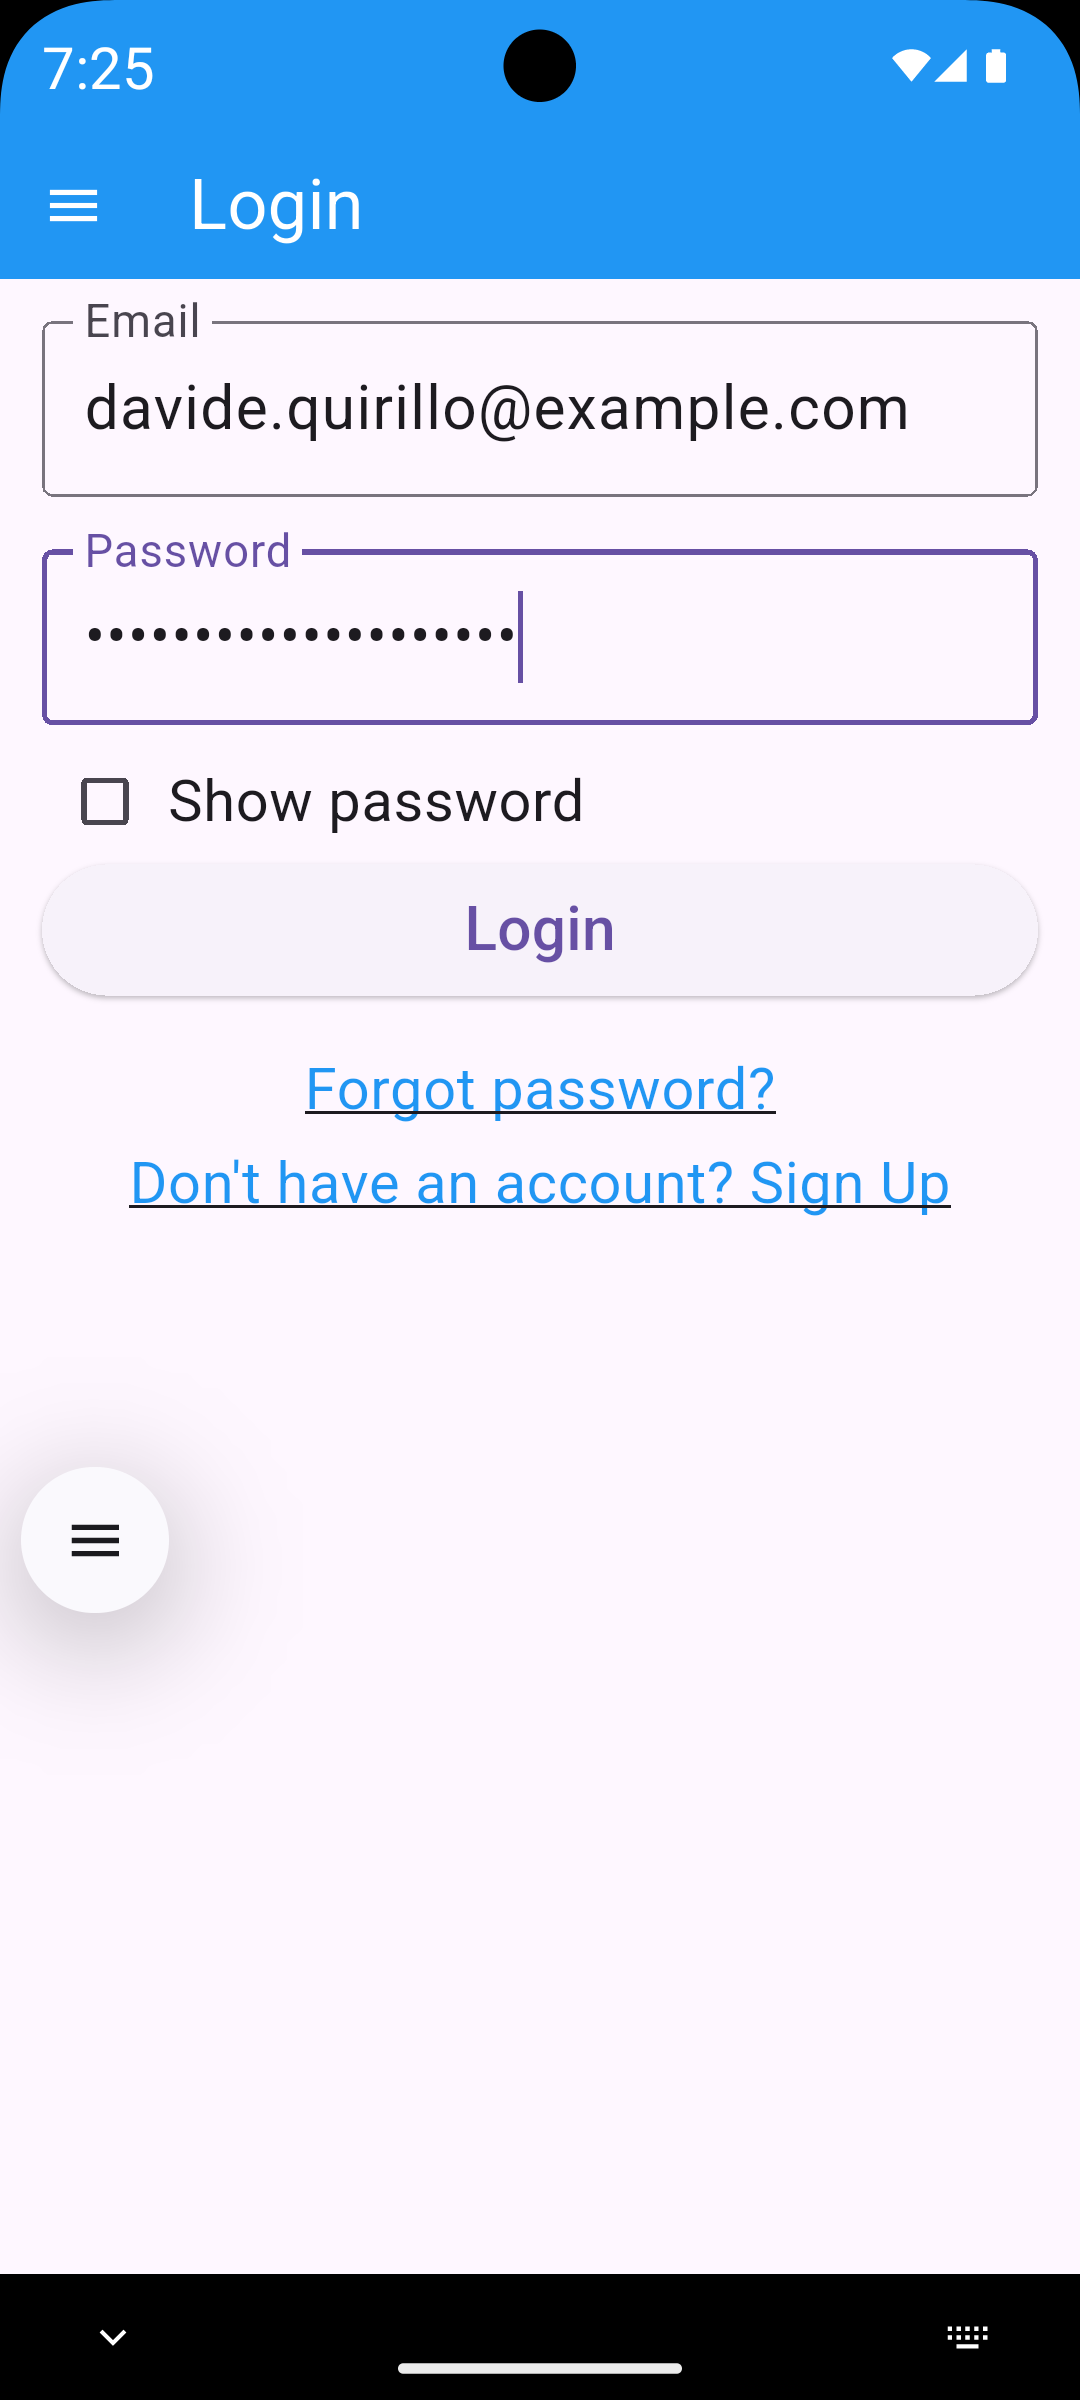
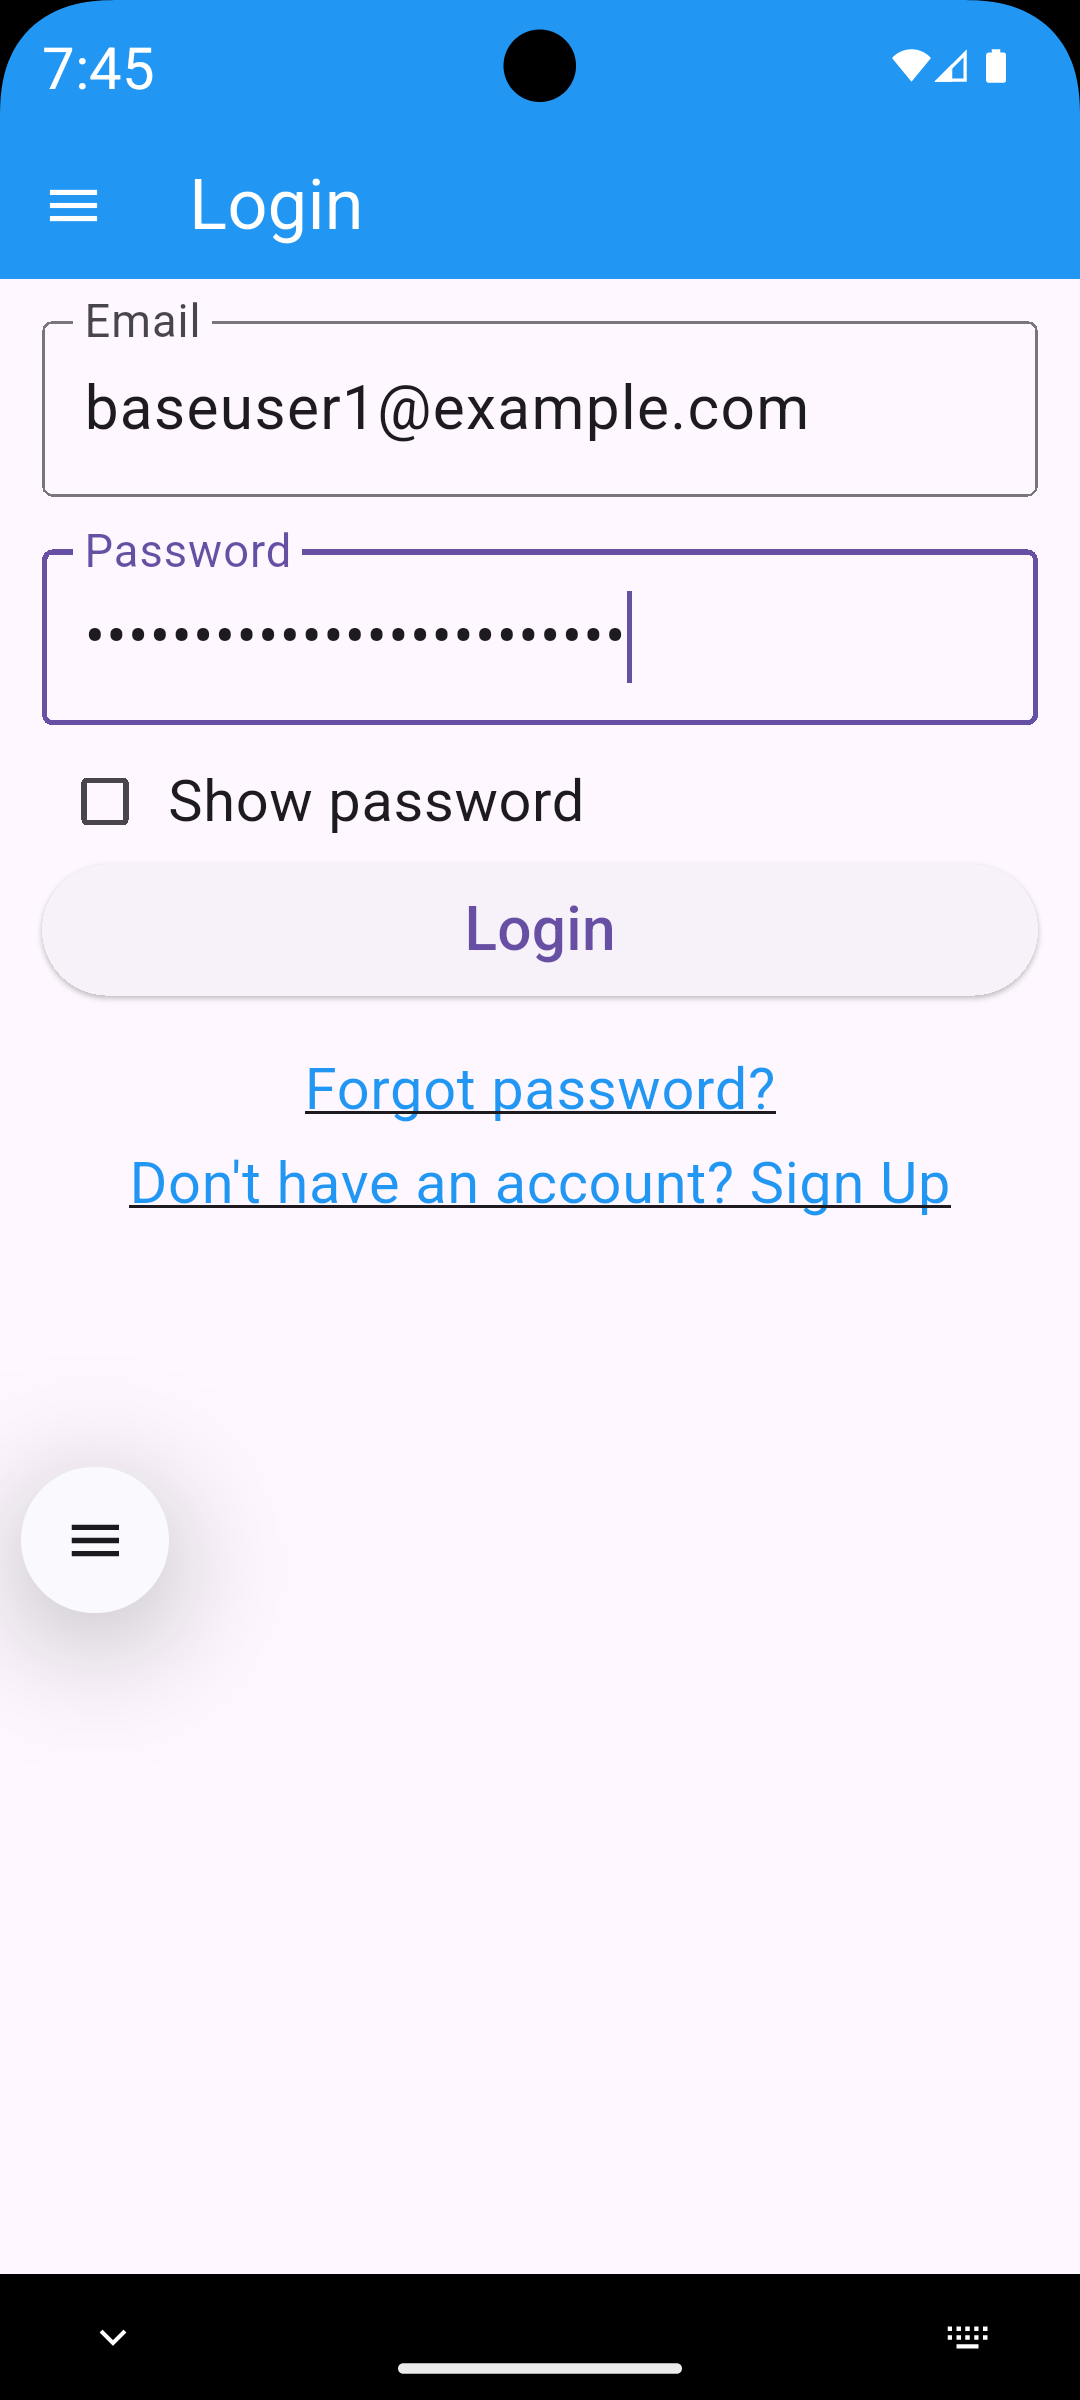
Usage tutorial: geolocalization permissions and advice page.

diff --git a/USAGE.md b/USAGE.md
@@ -8,7 +8,7 @@ When you first start the app, it asks for permission to send notifications.
   <img src="client/screenshots/allow_notifications.png" alt="Allow notifications screenshot" width="256">
 </p>
 
-This permission must be allowed because alerts sent to the server are propagated to the "chief" and nearby users who are notifiable (device registered to accept notifications), so this permission is essential. Press to "Allow".
+This permission must be allowed because alerts sent to the server are propagated to the "chief" and nearby users who are notifiable (device registered to accept notifications), so this permission is essential, not only to receive notifications, but also to technically be included in an alert. Click on "Allow".
 
 The general information page will open. Read it carefully, as it contains useful details on how the system works and what you need to do to use it.
 
@@ -24,7 +24,7 @@ After accepting the legal terms, the login page will open. To log in, you must b
 
 ## Registration
 
-Registration has one requirement, as explained on the "Info" page: the user's email address must have been authorized by the administrator or official user, i.e. it must have been included in a white list, so make sure you have obtained this authorization.
+Registration has one requirement, as explained on the "Info" page: the user's email address must have been authorized by the administrator or by the "officer" user, i.e. it must have been included in a white list, so make sure you have obtained this authorization.
 
 Registration is simple: simply fill out the short form (first name, last name, email address, password). You must set a strong password, containing at least one uppercase character, one lowercase character, a symbol, and a number, and it must be sufficiently long.
 
@@ -34,7 +34,7 @@ Registration is simple: simply fill out the short form (first name, last name, e
 
 Once you confirm your registration, an activation link will be sent to your email inbox. You must open the email and click on the activation link to complete the registration, so your account will be activated and you can do login.
 
-NOTE: the activation link received by email expires after 24 hours. After this time, you will need to repeat the registration process and receive a new activation link.
+NOTE: the activation link received by email expires after 24 hours. After this time, you will need to reopen the registration page, fill out the form again, and receive a new activation link.
 
 ## Login and 2FA
 
@@ -45,6 +45,90 @@ You must enter the email address and password you chose during registration. The
 <p align="center">
   <img src="client/screenshots/login.png" alt="Login screenshot" width="256">
 </p>
+
+Click Login. This will open another page titled "2FA," where you'll need to enter the verification code that will be sent to you shortly via email. Don't worry: this verification code is valid for 10 minutes, so you have plenty of time to open the email, read the code (or write it down on a piece of paper if you're comfortable doing so), and then enter it on the "2FA" verification page.
+
+<p align="center">
+  <img src="client/screenshots/2fa.png" alt="2FA screenshot" width="256">
+</p>
+
+Be careful, though, because you can't enter the verification code incorrectly more than three times, otherwise the login process will be blocked for 24 hours, and you'll have to try again the following day.
+
+NOTE: the login procedure needs to be done only once, after which the system remembers the user's session for a long time.
+
+## Grant geolocalization permissions
+
+Now, be careful: immediately after logging in, a warning window will open, explaining that for the geolocation system to function properly, you must grant it the following permissions:
+- precise GPS location
+- allow physical activity
+- allow all the time
+- "unrestricted" battery
+
+NOTE: the following procedure is simple but a bit tedious. Don't worry, though, because you only need to do it the first time, if completed correctly.
+
+### Grant precise GPS location
+
+<p align="center">
+  <img src="client/screenshots/gps_precise.png" alt="GPS precise screenshot" width="256">
+</p>
+
+Click on "Always" (if displayed) or click on "While using the app".
+
+### Allow physical activity
+
+<p align="center">
+  <img src="client/screenshots/gps_physical_activity.png" alt="Physical activity screenshot" width="256">
+</p>
+
+Allow physical activity (motion tracking): click on "Allow".
+
+### Allow background GPS
+
+To be notified about nearby alerts at any time, the device needs to periodically detect the user's GPS location in the background, even when the application has been closed, so you need to allow background GPS location detection by clicking on "Allow all the time".
+
+<p align="center">
+  <img src="client/screenshots/gps_all_the_time.png" alt="GPS all the time screenshot" width="256">
+</p>
+
+...and then in the settings page that opens automatically, you will still need to switch to "allow all the time". Then, after you are sure, you can click the "back" button on the top left to return to the app.
+
+<p align="center">
+  <img src="client/screenshots/gps_all_the_time_switch.png" alt="GPS all the time switch screenshot" width="256">
+</p>
+
+Now the device will automatically detect your GPS location occasionally, typically only when you've moved significantly (250 meters on foot, or a few kilometers or more when driving at car speeds) or when you experience a change in motion (movement followed by stationary, e.g., "I go to a café and sit at a table"), thus minimizing device battery consumption.
+
+However, to ensure this background process isn't interrupted by the device power management mechanism, you should set the battery to "Unrestricted" in the "Battery" section of the system settings relative to Quidalert app. See the following section.
+
+### Battery unrestricted
+
+Click OK in the warning window that explains the "unrestricted" battery function.
+
+The operating system settings page, specific to the Quidalert app, will now open.
+
+<p align="center">
+  <img src="client/screenshots/system_settings_quidalert_1.png" alt="System settings for Quidalert part1 screenshot" width="256">
+</p>
+
+Scroll down slightly and you'll find the "Battery" or "App Battery Usage" option.
+
+<p align="center">
+  <img src="client/screenshots/system_settings_quidalert_2.png" alt="System settings for Quidalert part2 screenshot" width="256">
+</p>
+
+Click to "Battery" or "App battery usage", and then switch to "Unrestricted"
+
+<p align="center">
+  <img src="client/screenshots/app_battery_usage.png" alt="App battery unrestricted screenshot" width="256">
+</p>
+
+Now you can go back by clicking on the "back" button in the top left corner, and then on the "back" button again until you return to the Quidalert app home page.
+
+## Advice page
+
+Remember to read the tips page. It's very helpful, and contains important info regarding the session maintenance, the technical functioning of the geolocation system, and other information regarding alerts.
+
+## Create an alert
 
 To be continued... Under construction...
 
